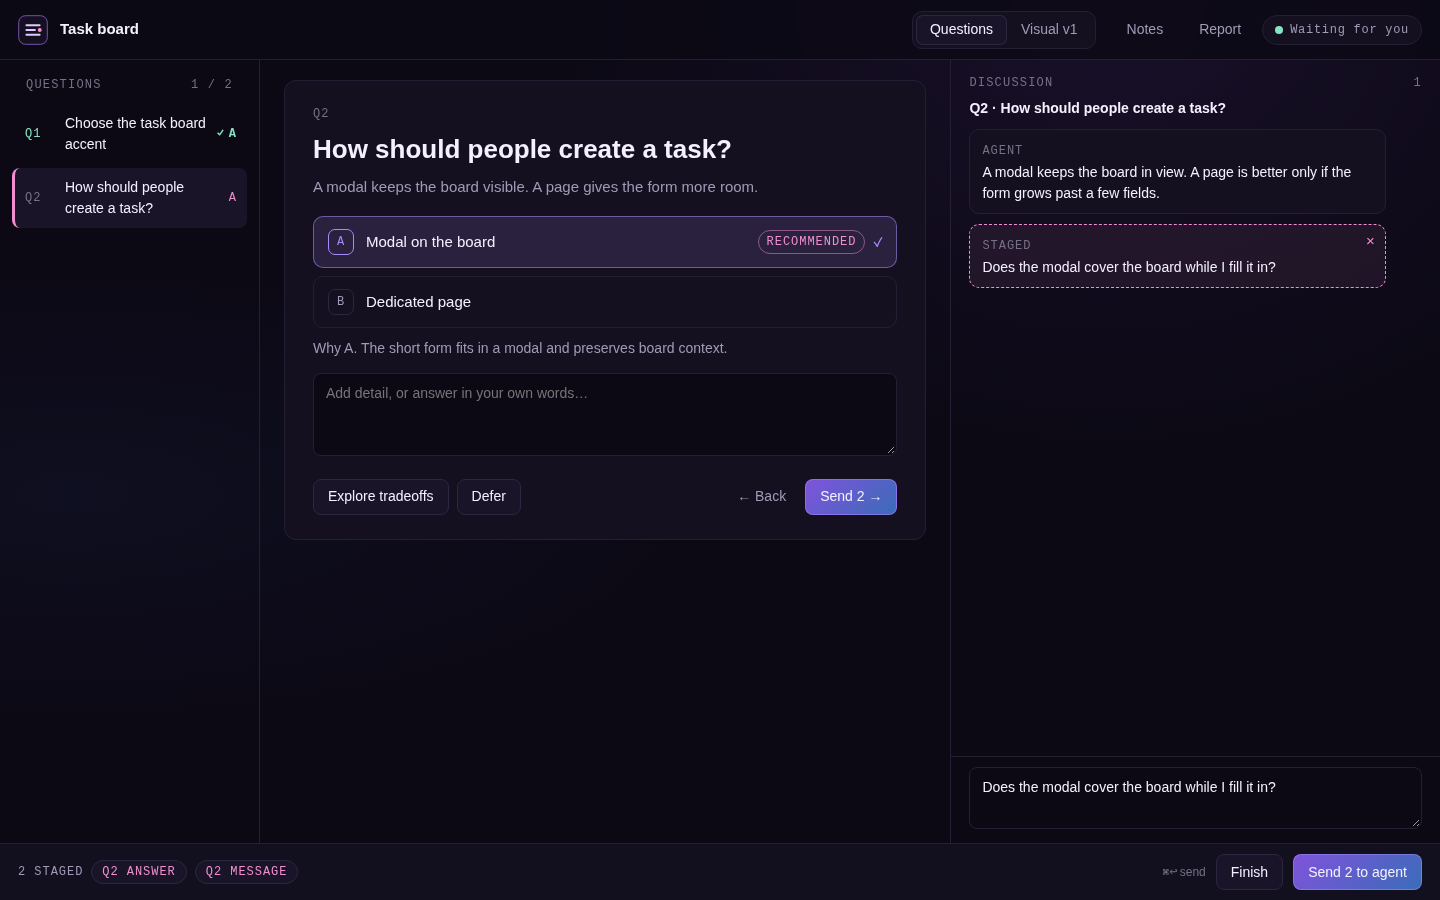
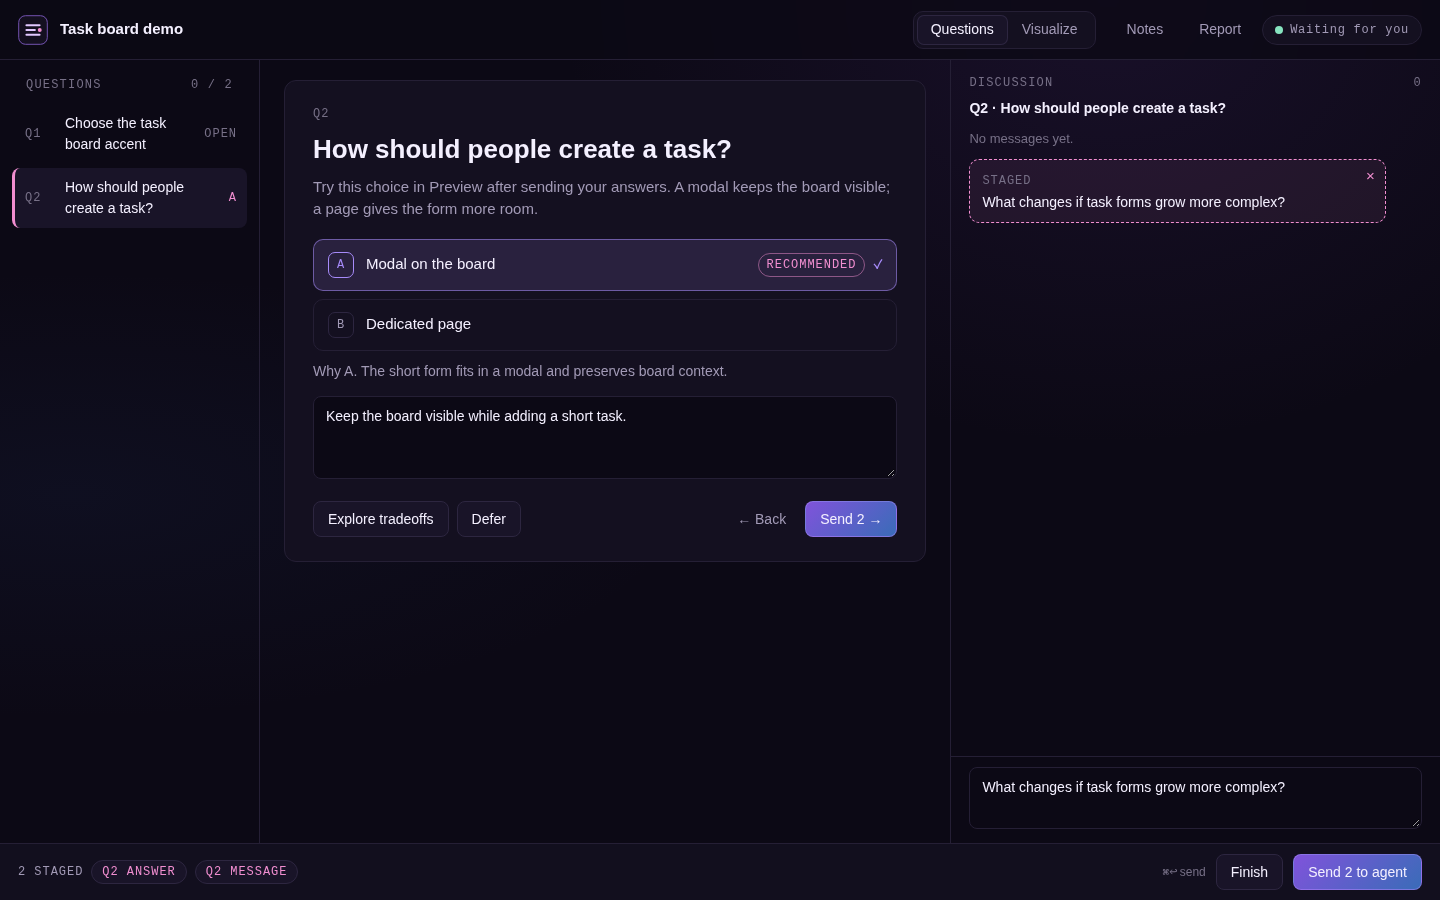
docs: refresh README and add collapsed feature gallery

diff --git a/README.md b/README.md
@@ -4,6 +4,41 @@ Run design interviews with [OMP](https://github.com/can1357/oh-my-pi) in your br
 
 ![Task board interview](docs/interview.png)
 
+<details>
+<summary>More screenshots — prototypes, diagrams, notes, exports, and terminal</summary>
+
+### Interactive prototypes
+
+Try screen flows in a sandboxed preview, then send feedback to redraw them.
+
+![Interactive task board prototype with local controls and visual feedback](docs/prototype.png)
+
+### System diagrams
+
+Explore architecture and flows without turning every interview into a screen design.
+
+![System diagram connecting the browser, Grill server, session store, and OMP agent](docs/diagram.png)
+
+### Shared interview context
+
+Keep the goal, vocabulary, facts, and risks alongside the questions.
+
+![Notes drawer with the interview goal, glossary, and verified facts](docs/notes.png)
+
+### Decision reports and exports
+
+Finish locally, then export Markdown, ADRs, a beads graph, SVG, or HTML.
+
+![Finished interview report with the ADR export format and destination directory](docs/report.png)
+
+### Session terminal
+
+The current terminal inspector supports option selection, written answers, messages, and defer conditions.
+
+![Terminal inspector showing a staged answer, its rationale, and current keyboard shortcuts](docs/tui.png)
+
+</details>
+
 Requires OMP 18.4.4 or later. Restart OMP after installing or updating.
 
 ## Install
@@ -22,9 +57,11 @@ Start an interview with `/grill <topic>` or `/grill tui <topic>`. To let the age
 3. Click **Send N to agent**, or press Cmd/Ctrl+Enter, to send your drafts together.
 4. Click **Finish** to save the interview as `report.md`.
 
-Explore, Defer, Reopen, and visual requests reach the agent immediately rather than waiting for Send. Defer asks for an optional "revisit when" condition shown in the report's Deferred section. The tab title shows a `(N)` badge while the turn is yours, and the page can ask to send a desktop notification when the agent releases the turn in a hidden tab.
+Explore, Defer, Reopen, and visual requests reach the agent immediately rather than waiting for Send. Defer asks for an optional "revisit when" condition shown in the report's Deferred section. The tab title shows a `(N)` badge while the turn is yours. On supported secure browser origins (such as localhost), you can grant desktop notification permission for agent replies while the tab is hidden.
 
 You can keep several interviews open. Use `/grill use <id>` to select the one that commands and agent replies should target.
+
+Saved interviews are shared across a repository's linked worktrees. Export paths stay relative to the checkout where the interview was started. `/grill fork` creates a new interview carrying prior context, not prior questions or answers; use `/grill resume` to restore an unfinished interview.
 
 | Command | Description |
 | --- | --- |
@@ -39,20 +76,19 @@ You can keep several interviews open. Use `/grill use <id>` to select the one th
 | `/grill answer <id> -- <text>` | Record a written answer. |
 | `/grill reply <id> <text>` | Send a message about a question. |
 | `/grill pause` | Pause the selected interview. |
-| `/grill resume` | Resume a paused or errored interview. |
-| `/grill history` | View a finished interview. |
+| `/grill resume [id]` | Resume a paused or errored interview. |
+| `/grill history [id]` | View a finished interview. |
+| `/grill sessions` | List saved interviews for this repository. |
 | `/grill finish` | Finish the interview and save its report. |
-| `/grill export <kind> [path]` | Write `report`, `adr`, `beads`, `diagram`, or `prototype` into the project (kinds autocomplete). Needs a finished interview; add `--force` to overwrite. `adr` writes one numbered record per durable decision into `docs/adr`; `beads` writes a plan you apply with `bd create --graph <file>`. |
+| `/grill export <kind> [path] [--force]` | Export `report`, `adr`, `beads`, `diagram`, or `prototype` from a finished interview. Kinds autocomplete; `--force` permits overwriting. |
 | `/grill fork [id]` | Start a separate interview seeded with a finished interview's intent, glossary, facts, and risks. |
 | `/grill config` | Show settings; `/grill config <key> <value>` sets one. Keys and values autocomplete. |
 
 Run `/grill` to list open interviews and commands. Tab completion suggests commands, interview IDs, questions, and options.
 
-In the browser's Report drawer, choose an export format and press Export. The path is optional; ADRs use a directory, while the other formats use a file. Unavailable formats are disabled. ADRs include recorded decisions and considered options, without inferred consequences. Beads plans retain an explicit `https://linear.app/<workspace>/issue/<ID>` URL from the interview topic as the parent epic's `external_ref`; a bare ticket ID is not enough to infer the workspace.
+In the browser's Report drawer, choose an export format and press Export. The path is optional; ADRs use a directory, while the other formats use a file. Unavailable formats are disabled. ADRs become numbered `docs/adr/NNNN-slug.md` records, with recorded decisions and considered options but no inferred consequences. Beads defaults to `docs/grill-beads.json`; import it from your project with `bd create --graph docs/grill-beads.json`. Plans retain an explicit `https://linear.app/<workspace>/issue/<ID>` URL from the interview topic as the parent epic's `external_ref`; a bare ticket ID is not enough to infer the workspace.
 
 If an agent turn stops, the page shows its error and keeps the saved batch. Run `/grill resume` in the owning OMP session to retry it. Resuming an attached error keeps the same page URL; finished interviews are excluded from resume.
-
-![Task board prototype](docs/prototype.png)
 
 The Visual view can show a system diagram or an interactive screen prototype. Prototypes run in a sandbox, so clicking inside one does not call the agent. Use diagrams for flows and architecture, and prototypes to explore a screen design.
 
@@ -63,8 +99,6 @@ Prototype labels and displayed text update as you edit their inputs, without los
 ### `/grill tui`
 
 Prefer the terminal? Run `/grill tui` to open the selected interview inside your OMP session. The browser remains available, so you can use either view.
-
-![Session terminal](docs/tui.png)
 
 Use `j`/`k` to move between questions and `a`-`d` to stage an option. Press `i` to write an answer (the only way to answer a question with no options), `m` to write a discussion message, and `x` to defer with an optional "revisit when" condition; `enter` saves, `esc` discards. Press `enter` to send, `e` to explore, or `f` twice to finish. Use `tab` to view the discussion and `esc` or `q` to close the inspector. Closing the inspector leaves the interview open.
 
@@ -121,6 +155,7 @@ git clone https://github.com/Shadorain/omp-grill.git
 cd omp-grill
 bun install
 bun test
+bun run typecheck
 bun run demo
 ```
 
